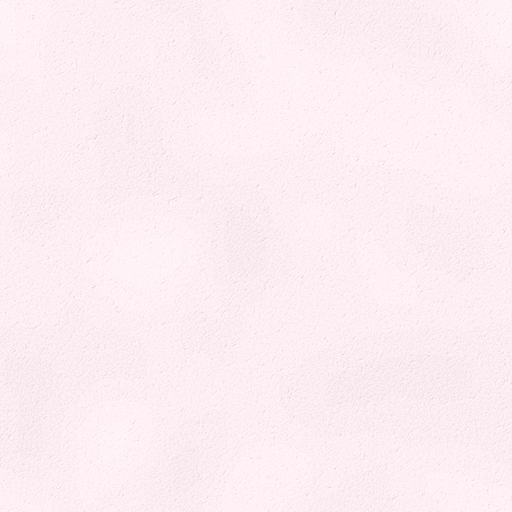
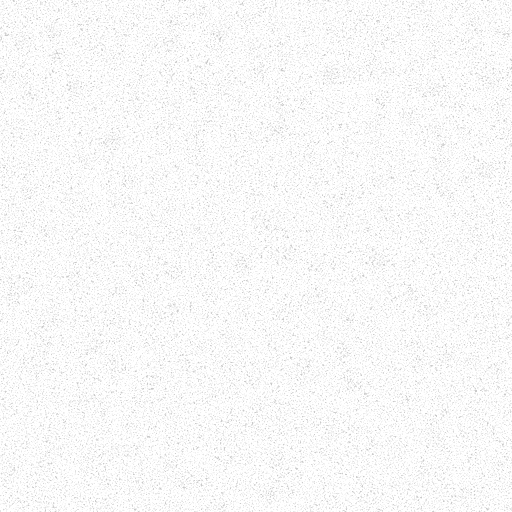
Use transparent plastic overlay

diff --git a/site.css b/site.css
@@ -1,43 +1,45 @@
 :root {
   color-scheme: light;
-  --background: #fff1f6;
-  --text: #261923;
-  --muted: #765b68;
-  --link: #261923;
-  --selection: rgba(214, 79, 132, 0.24);
-  --border: rgba(84, 39, 62, 0.24);
-  --footnote-background: rgba(168, 53, 101, 0.12);
-  --footnote-background-hover: rgba(168, 53, 101, 0.2);
-  --tooltip-background: #fff8fb;
-  --tooltip-shadow: rgba(84, 39, 62, 0.18);
-  --toggle-surface: #fff8fb;
-  --toggle-border: #261923;
-  --toggle-thumb: #261923;
-  --plastic-texture: url("assets/computer-plastic-light.png");
-  --plastic-texture-position: 0 0;
-  --plastic-texture-size: 512px 512px;
+  --background: #eae5dd;
+  --text: #3d3833;
+  --muted: #746b62;
+  --link: #3d3833;
+  --selection: rgba(61, 56, 51, 0.2);
+  --border: rgba(61, 56, 51, 0.24);
+  --footnote-background: rgba(61, 56, 51, 0.1);
+  --footnote-background-hover: rgba(61, 56, 51, 0.18);
+  --tooltip-background: #f4efe7;
+  --tooltip-shadow: rgba(61, 56, 51, 0.18);
+  --toggle-surface: #f4efe7;
+  --toggle-border: #3d3833;
+  --toggle-thumb: #3d3833;
+  --plastic-filter: url("assets/computer-plastic-light.png");
+  --plastic-filter-opacity: 0.85;
+  --plastic-filter-position: 0 0;
+  --plastic-filter-size: 512px 512px;
   --page-width: 760px;
   --content-width: 580px;
 }
 
 :root.dark {
   color-scheme: dark;
-  --background: #22221f;
-  --text: #f3f0e7;
-  --muted: #c8c2b5;
-  --link: #f3f0e7;
-  --selection: rgba(111, 166, 255, 0.36);
-  --border: rgba(243, 240, 231, 0.28);
-  --footnote-background: rgba(243, 240, 231, 0.14);
-  --footnote-background-hover: rgba(243, 240, 231, 0.22);
-  --tooltip-background: #34332e;
+  --background: #3d3833;
+  --text: #eae5dd;
+  --muted: #c7c0b6;
+  --link: #eae5dd;
+  --selection: rgba(234, 229, 221, 0.24);
+  --border: rgba(234, 229, 221, 0.28);
+  --footnote-background: rgba(234, 229, 221, 0.13);
+  --footnote-background-hover: rgba(234, 229, 221, 0.22);
+  --tooltip-background: #4a4540;
   --tooltip-shadow: rgba(0, 0, 0, 0.35);
-  --toggle-surface: #34332e;
-  --toggle-border: #f3f0e7;
-  --toggle-thumb: #f3f0e7;
-  --plastic-texture: url("assets/computer-plastic-dark.png");
-  --plastic-texture-position: 0 0;
-  --plastic-texture-size: 512px 512px;
+  --toggle-surface: #4a4540;
+  --toggle-border: #eae5dd;
+  --toggle-thumb: #eae5dd;
+  --plastic-filter: url("assets/computer-plastic-dark.png");
+  --plastic-filter-opacity: 0.85;
+  --plastic-filter-position: 0 0;
+  --plastic-filter-size: 512px 512px;
 }
 
 * {
@@ -47,26 +49,30 @@
 html {
   min-height: 100%;
   background-color: var(--background);
-  background-image: var(--plastic-texture);
-  background-position: var(--plastic-texture-position);
-  background-size: var(--plastic-texture-size);
-  background-attachment: fixed;
 }
 
 body {
   min-height: 100%;
   margin: 0;
   background-color: var(--background);
-  background-image: var(--plastic-texture);
-  background-position: var(--plastic-texture-position);
-  background-size: var(--plastic-texture-size);
-  background-attachment: fixed;
   color: var(--text);
   font-family: "Newsreader", Georgia, "Times New Roman", serif;
   font-size: 20px;
   font-weight: 300;
   line-height: 1.28;
   transition: background-color 180ms linear, color 180ms linear;
+}
+
+body::before {
+  position: fixed;
+  z-index: 999;
+  inset: 0;
+  pointer-events: none;
+  background-image: var(--plastic-filter);
+  background-position: var(--plastic-filter-position);
+  background-size: var(--plastic-filter-size);
+  content: "";
+  opacity: var(--plastic-filter-opacity);
 }
 
 ::selection {
@@ -219,10 +225,6 @@ a:hover {
   height: 100vh;
   padding: 76px 24px 24px;
   background-color: var(--background);
-  background-image: var(--plastic-texture);
-  background-position: var(--plastic-texture-position);
-  background-size: var(--plastic-texture-size);
-  background-attachment: fixed;
   border-right: 1px solid var(--border);
   box-shadow: 8px 0 24px var(--tooltip-shadow);
   pointer-events: none;
@@ -566,10 +568,6 @@ h2 {
     overflow: auto;
     border-right: 0;
     background-color: var(--background);
-    background-image: var(--plastic-texture);
-    background-position: var(--plastic-texture-position);
-    background-size: var(--plastic-texture-size);
-    background-attachment: fixed;
     box-shadow: none;
     opacity: 0;
     transform: none;

diff --git a/essay.html b/essay.html
@@ -7,7 +7,7 @@
       name="description"
       content="Essay template for David Crispell's personal website."
     >
-    <meta name="theme-color" content="#fff1f6">
+    <meta name="theme-color" content="#eae5dd">
     <title>Essay Title - David Crispell</title>
     <link rel="preconnect" href="https://fonts.googleapis.com">
     <link rel="preconnect" href="https://fonts.gstatic.com" crossorigin>

diff --git a/index.html b/index.html
@@ -7,7 +7,7 @@
       name="description"
       content="Personal website for David Crispell: writing, projects, research, and links."
     >
-    <meta name="theme-color" content="#fff1f6">
+    <meta name="theme-color" content="#eae5dd">
     <title>David Crispell</title>
     <link rel="preconnect" href="https://fonts.googleapis.com">
     <link rel="preconnect" href="https://fonts.gstatic.com" crossorigin>

diff --git a/scratch-work-wip-1.html b/scratch-work-wip-1.html
@@ -4,7 +4,7 @@
     <meta charset="utf-8">
     <meta name="viewport" content="width=device-width, initial-scale=1">
     <meta name="description" content="Incoherent scratchwork by David Crispell.">
-    <meta name="theme-color" content="#fff1f6">
+    <meta name="theme-color" content="#eae5dd">
     <title>incoherent scratchwork - David Crispell</title>
     <link rel="preconnect" href="https://fonts.googleapis.com">
     <link rel="preconnect" href="https://fonts.gstatic.com" crossorigin>

diff --git a/scratch-work-wip-2.html b/scratch-work-wip-2.html
@@ -4,7 +4,7 @@
     <meta charset="utf-8">
     <meta name="viewport" content="width=device-width, initial-scale=1">
     <meta name="description" content="Incoherent scratchwork by David Crispell.">
-    <meta name="theme-color" content="#fff1f6">
+    <meta name="theme-color" content="#eae5dd">
     <title>incoherent scratchwork - David Crispell</title>
     <link rel="preconnect" href="https://fonts.googleapis.com">
     <link rel="preconnect" href="https://fonts.gstatic.com" crossorigin>

diff --git a/scratch-work-wip-3.html b/scratch-work-wip-3.html
@@ -4,7 +4,7 @@
     <meta charset="utf-8">
     <meta name="viewport" content="width=device-width, initial-scale=1">
     <meta name="description" content="Incoherent scratchwork by David Crispell.">
-    <meta name="theme-color" content="#fff1f6">
+    <meta name="theme-color" content="#eae5dd">
     <title>incoherent scratchwork - David Crispell</title>
     <link rel="preconnect" href="https://fonts.googleapis.com">
     <link rel="preconnect" href="https://fonts.gstatic.com" crossorigin>